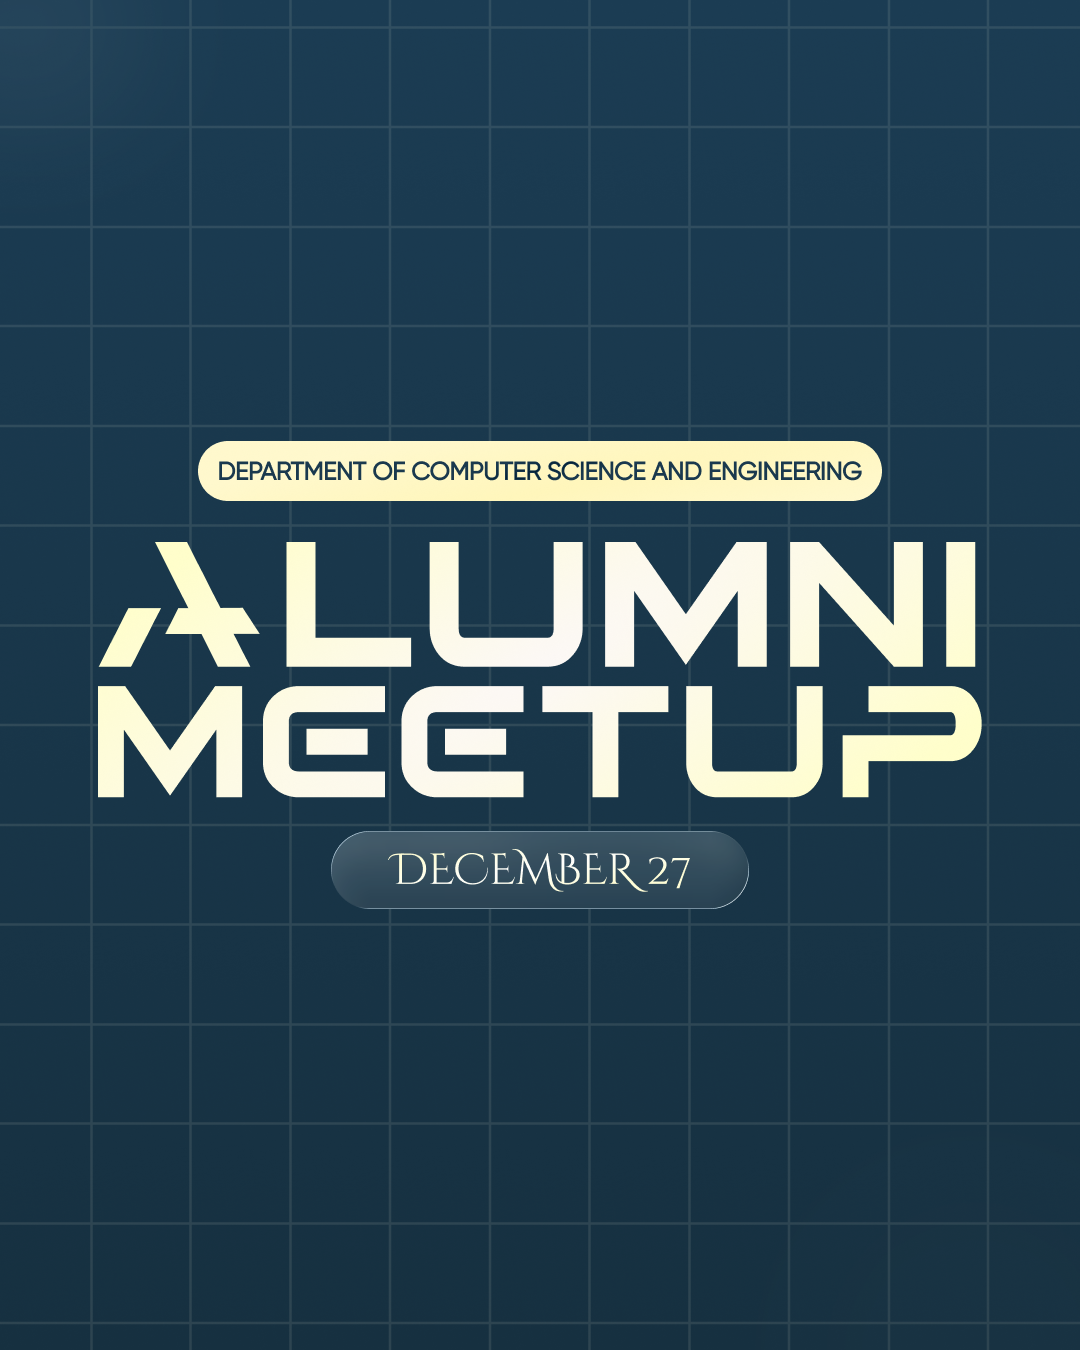
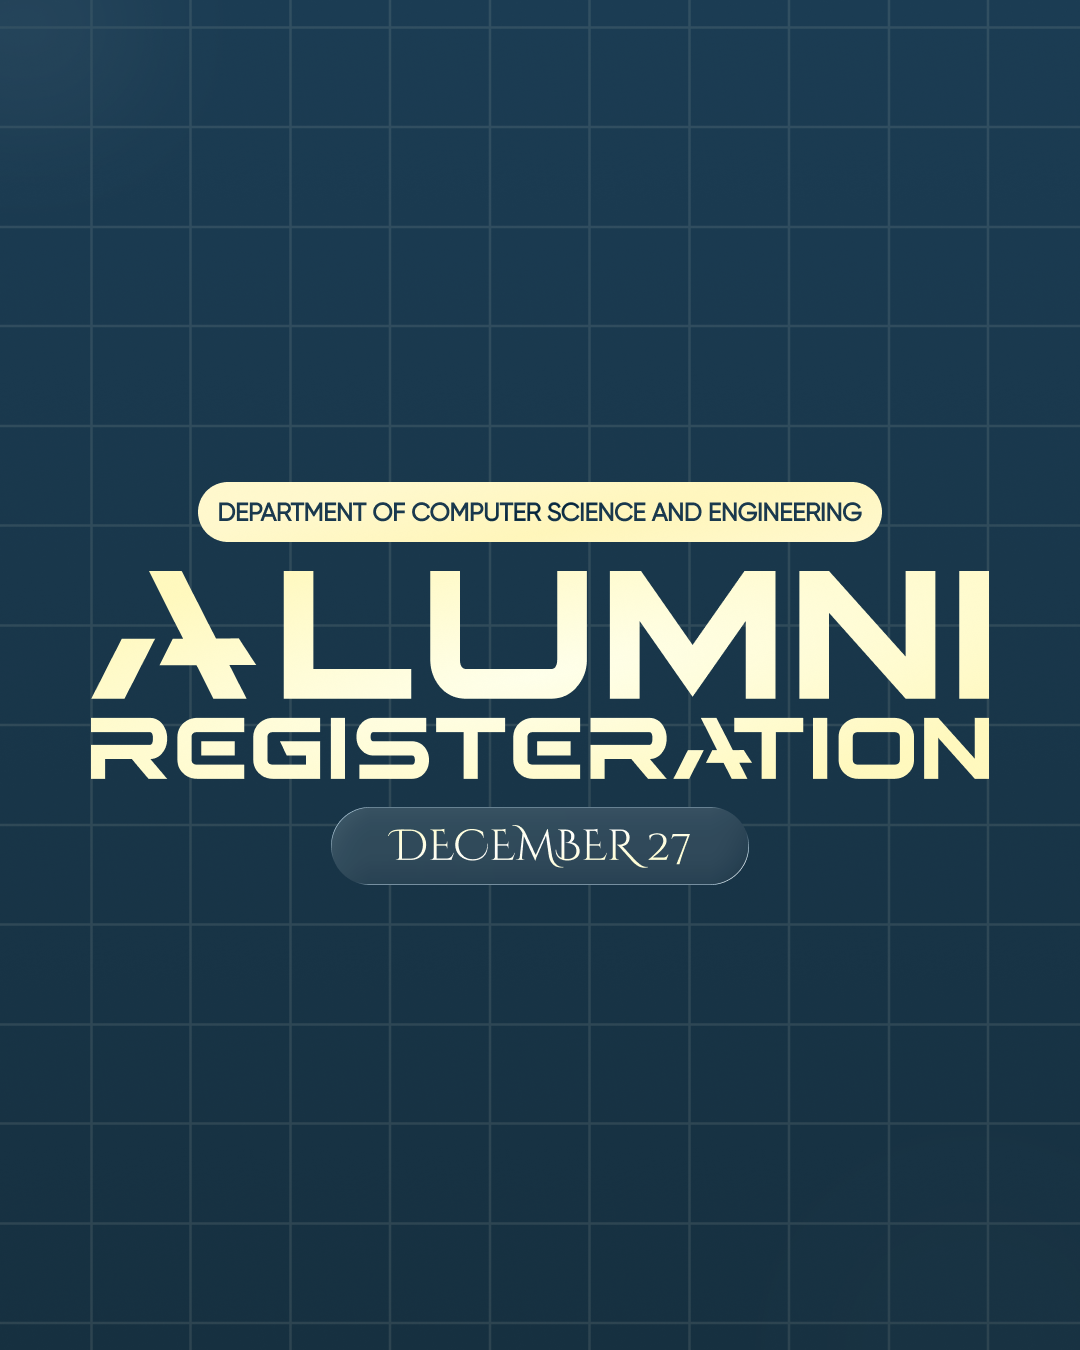
fix: correct spelling in title and header of AlumniRegistrationForm

Changed region(s): [[0.0611, 0.3111, 0.9167, 0.6844]]

diff --git a/src/components/AlumniRegistrationForm.tsx b/src/components/AlumniRegistrationForm.tsx
@@ -224,7 +224,7 @@ export default function AlumniRegistrationForm() {
             >
               <div className="mb-4">
                 <h1 className="text-[var(--white)] m-0">
-                  Alumni Meetup Registration
+                  Alumni Registration
                 </h1>
               </div>
               <p className="text-[var(--white)] opacity-90 m-0 max-w-2xl">

diff --git a/index.html b/index.html
@@ -5,7 +5,7 @@
       <meta charset="UTF-8" />
       <meta name="viewport" content="width=device-width, initial-scale=1.0" />
       <link rel="icon" type="image/x-icon" href="/logo.ico" />
-      <title>Alumni Meetup | CSE MBCET</title>
+      <title>Alumni Registeration | CSE MBCET</title>
     </head>
 
     <body>
